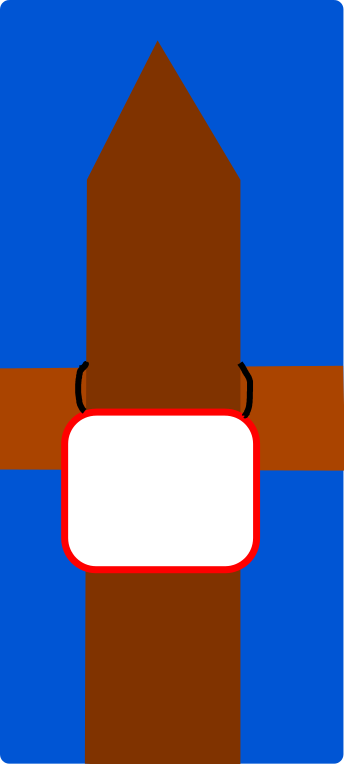
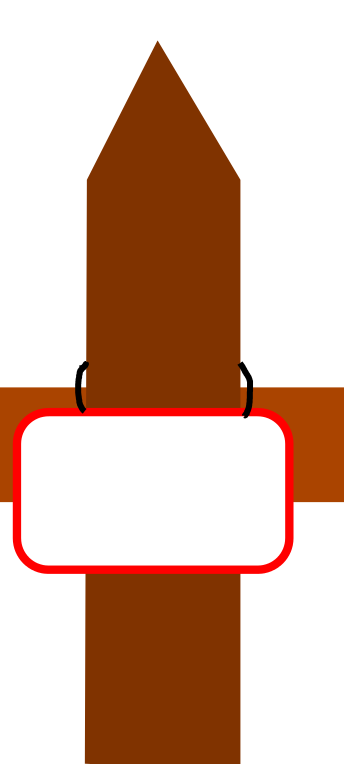
fence styling and new goal post

diff --git a/public/stylesheets/style.css b/public/stylesheets/style.css
@@ -17,19 +17,46 @@ a {
 /* fence page styling */
 
 .fence{
-  width: 100%;
+  width: 12000px;
+  overflow: auto;
   text-align: center;
+  float:left;
 }
 
 .fencepost{
   margin: 0px;
   padding: 0px;
-  width: 344px;
+  width: 300px;
   height: 764px;
   display: inline-block;
   background-image: url(images/fencepost_sign.png);
+  float:left;
+}
+
+.emptypost{
+  vertical-align: top;
+  margin: 0px;
+  padding: 0px;
+  width: 260px;
+  height: 764px;
+  display: inline-block;
+  background-image: url(images/fencepost.png);
+  float:left;
+}
+
+.emptyform{
+  color: black;
+  width: 160px;
 }
 
 .fencegoal{
   margin-top: 460px;
+  width: 220px;
+  margin-left: 50px;
+}
+
+.newgoal{
+  margin-top: 300px;
+  margin-left: 90px;
+  text-align: left;
 }
